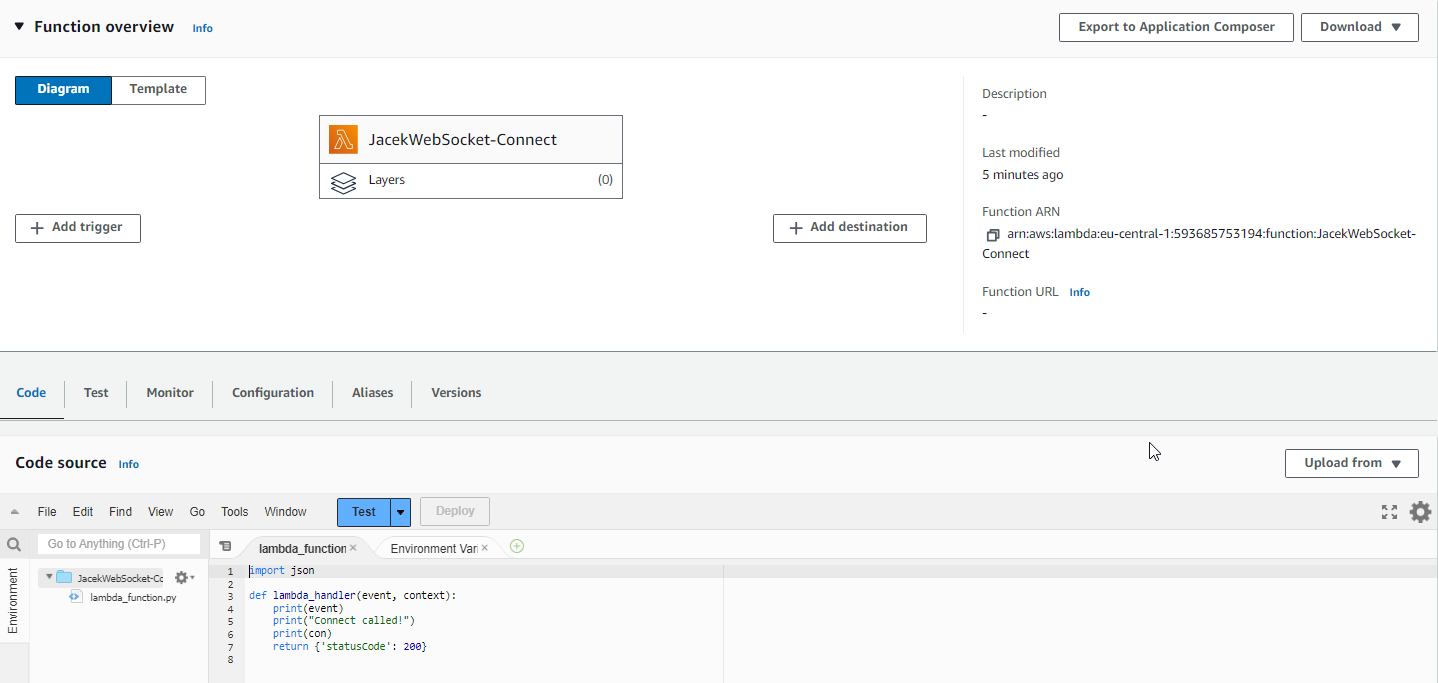
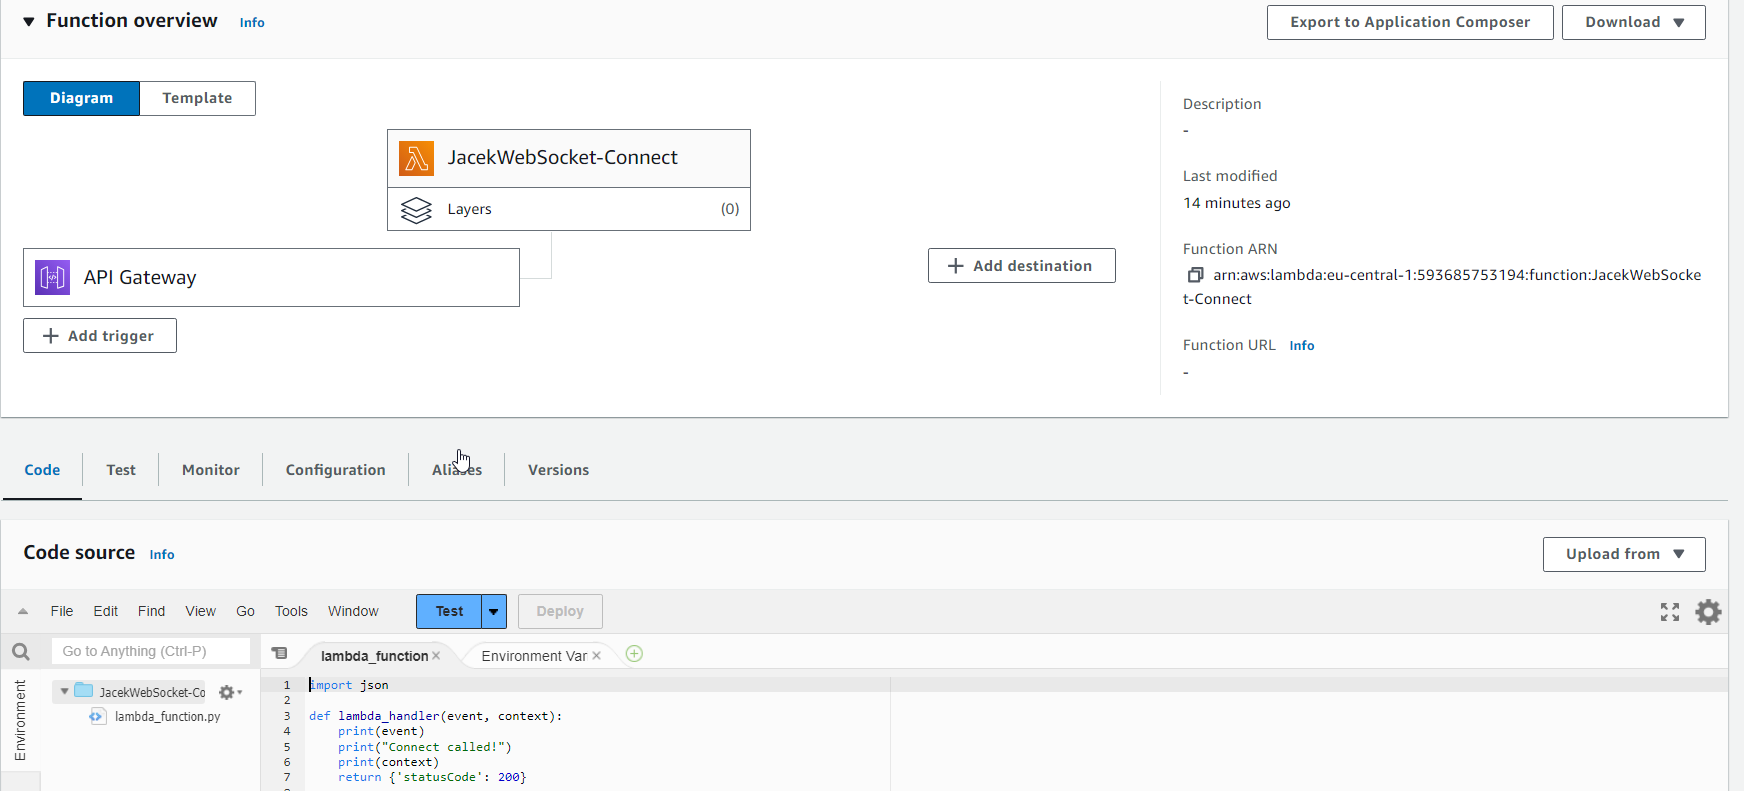
api gw web socket

diff --git a/API GW/readme.md b/API GW/readme.md
@@ -22,7 +22,9 @@
       - [Specify API details](#specify-api-details)
       - [Add routes](#add-routes)
       - [Attach integrations](#attach-integrations)
+      - [Add Stages](#add-stages)
       - [Broadcast](#broadcast)
+    - [Calling WebSocket API](#calling-websocket-api)
 
 
 # Create first mocked API
@@ -487,19 +489,23 @@ Selected routes are integrated with the following lambda functions:
       # extract connectionId from the incoming event
       connectionId = event["requestContext"]["connectionId"]
       
-      # do something...
+      # do something... (it is not used)
       responseMessage = "responding..."
       
       # form response and post back to connectionId
-      response = client.post_to_connection(ConnectionId=connectionId, Data=json.dumps("responding").encoding('urf-8'))
+      response = client.post_to_connection(ConnectionId=connectionId, Data=json.dumps("responding").encode('utf-8'))
       return { 'statusCode': 200 }
   ```
   In the role which is used by this lambda function add to permissions `AmazonAPIGatewayInvokeFullAccess`.
   ![0054_web-socket-api.png](./images/0054_web-socket-api.png)
 
+#### Add Stages
+
+![0057_web-socket-api.png](./images/0057_web-socket-api.png)
+
 #### Broadcast
 
-It is possible to send a message to all active clients. For example `connectionId` values could be stored in DB. Next the values could be read from this DB. Here we will use test window to simulate it.
+It is possible to send a message to all active clients. For example `connectionId` values could be stored in DB. Next the values could be read from this DB. Here we will use test window to simulate it. Make sure that role of this function also has policy `AmazonAPIGatewayInvokeFullAccess`.
 
 ```py
 import json
@@ -516,10 +522,66 @@ def lambda_handler(event, context):
     message = event["message"]  
     
     # form response and post back to connectionId
-    response = client.post_to_connection(ConnectionId=connectionId, Data=json.dumps("responding").encoding('urf-8'))
+    response = client.post_to_connection(ConnectionId=connectionId, Data=json.dumps("responding to all active clients").encode('utf-8'))
 
     # no need to return 200 because this function would not be called from API GW
 ```
+
+### Calling WebSocket API
+
+* Check URLs
+  ![0058_web-socket-api.png](./images/0058_web-socket-api.png)
+  wss://oxwt27c61i.execute-api.eu-central-1.amazonaws.com/production   
+  https://oxwt27c61i.execute-api.eu-central-1.amazonaws.com/production/@connections
+
+* Connect with WebSocket API
+  This can be done using for example this page: https://piehost.com/websocket-tester
+  ![0059_web-socket-api.png](./images/0059_web-socket-api.png)
+
+  Next we can check logs from the executed lambda, see value of `'connectionId': 'V_0lYc-6FiACHyw='`:
+  ![0060_web-socket-api.png](./images/0060_web-socket-api.png)
+
+* Call `SendMessage` WebSocket API.
+
+  To do this make sure that the lambda function uses correct address of API GW https://oxwt27c61i.execute-api.eu-central-1.amazonaws.com/production. Update the following line in the lambda function:
+
+  ```py
+  client = boto3.client('apigatewaymanagementapi', endpoint_url="https://oxwt27c61i.execute-api.eu-central-1.amazonaws.com/production")
+  ```
+
+  Call `SendMessage` WebSocket API we have to use the following payload.
+  ```json
+  {
+    "action": "sendMessage",
+    "message": "hello, is anyone there?"
+  }
+  ```
+  It is required the value of `action` field matches value defined in `Route key` from `Custom routes`.
+
+  ![0061_web-socket-api.png](./images/0061_web-socket-api.png)
+  We can see that proper lambda function has been called and this lambda function called back the client (message `"responding"`).
+
+  * Broadcast
+  We can simulate existence of some background process which sends a message to all active clients. This can be done using broadcast lambda function.
+
+  Update the following line in the lambda function:
+
+  ```py
+  client = boto3.client('apigatewaymanagementapi', endpoint_url="https://oxwt27c61i.execute-api.eu-central-1.amazonaws.com/production")
+  ```
+  Open test window for the `connectionId` use value `V_0lYc-6FiACHyw=` the was generate for the client that is used in this example.   
+
+  ```json
+  {
+    "connectionId": "V_0lYc-6FiACHyw=",
+    "message": "Anyone out there?"
+  }
+  ```
+  ![0062_web-socket-api.png](./images/0062_web-socket-api.png)
+
+  After clicking `Invoke` we can see that the client received the message (`"responding to all active clients"`).
+  ![0063_web-socket-api.png](./images/0063_web-socket-api.png)
+
 
 
 
